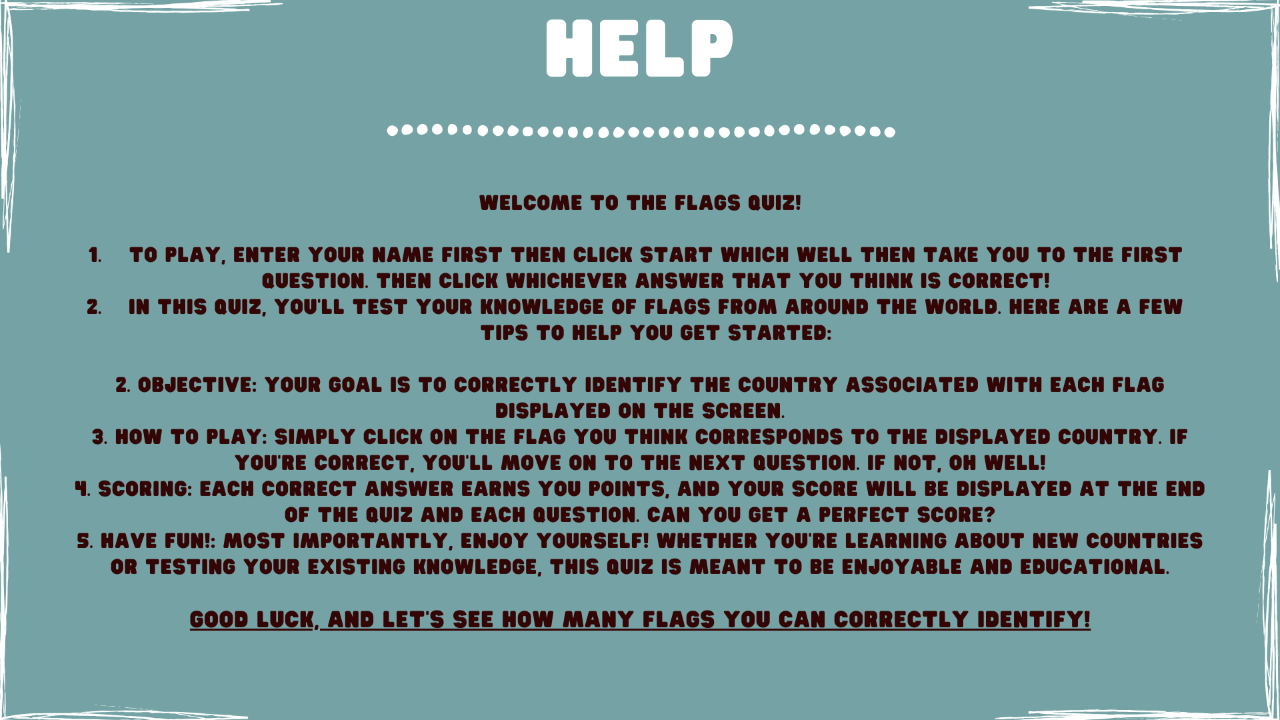
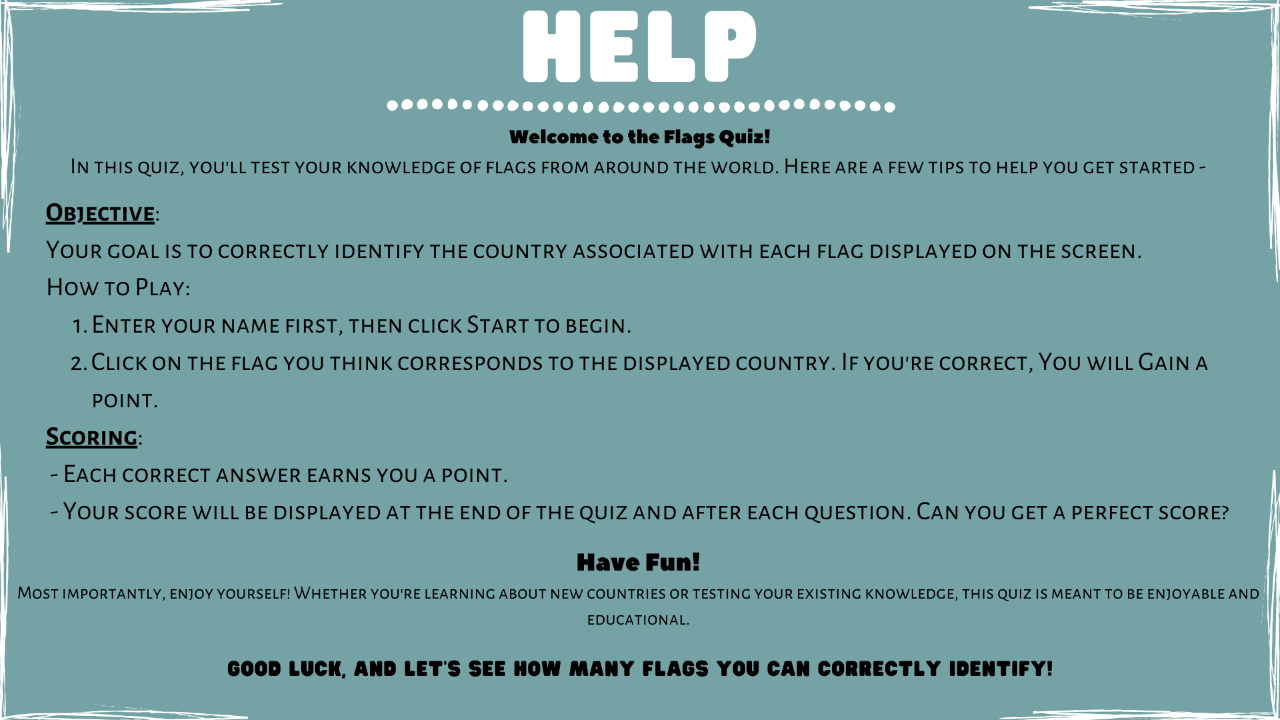
I changed my help window and also updated my name entry, you will see in my improvements what I have done.

diff --git a/main.py b/main.py
@@ -202,7 +202,7 @@ class QuizApp:
         name = self.name_entry.get()
 
         # Check if the name passes the rules (only letters and numbers)
-        if not re.match("^[a-zA-Z0-9]{3,12}$", name):
+        if not re.match("^(?=.*[a-zA-Z])[a-zA-Z0-9]{3,12}$", name):
             self.show_invalid_name_message()
             return
     
@@ -225,8 +225,8 @@ class QuizApp:
         y = (screen_height - 150) // 2
 
         #Make te message box in middle of sreen.
-        messagebox.showerror("Invalid Name", "Please enter a Valid Name - Only Letters and Numbers are allowed, and it must be between 3 and 12 characters. Press OK to continue", parent=self.home_window)
-    
+        messagebox.showerror("Invalid Name", "Please enter a valid name: Only letters and numbers are allowed, it must be between 3 and 12 characters, and contain at least one letter. Press OK to continue", parent=self.home_window)   
+
     def show_help(self, return_to_quiz=False):
         self.return_to_quiz_flag = return_to_quiz
         self.help_window.deiconify()
